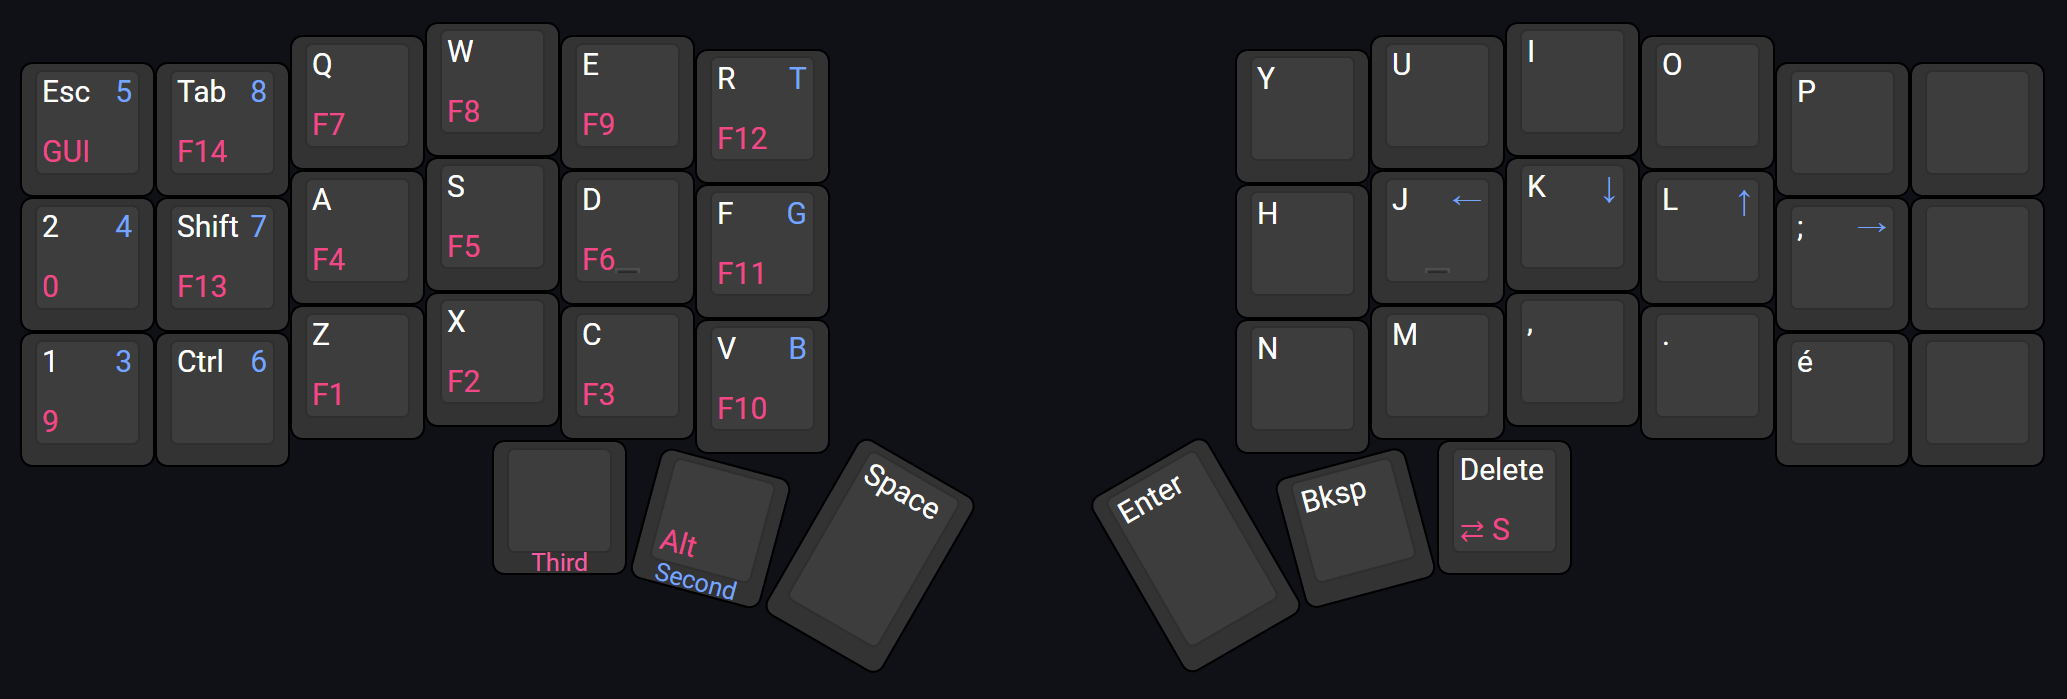
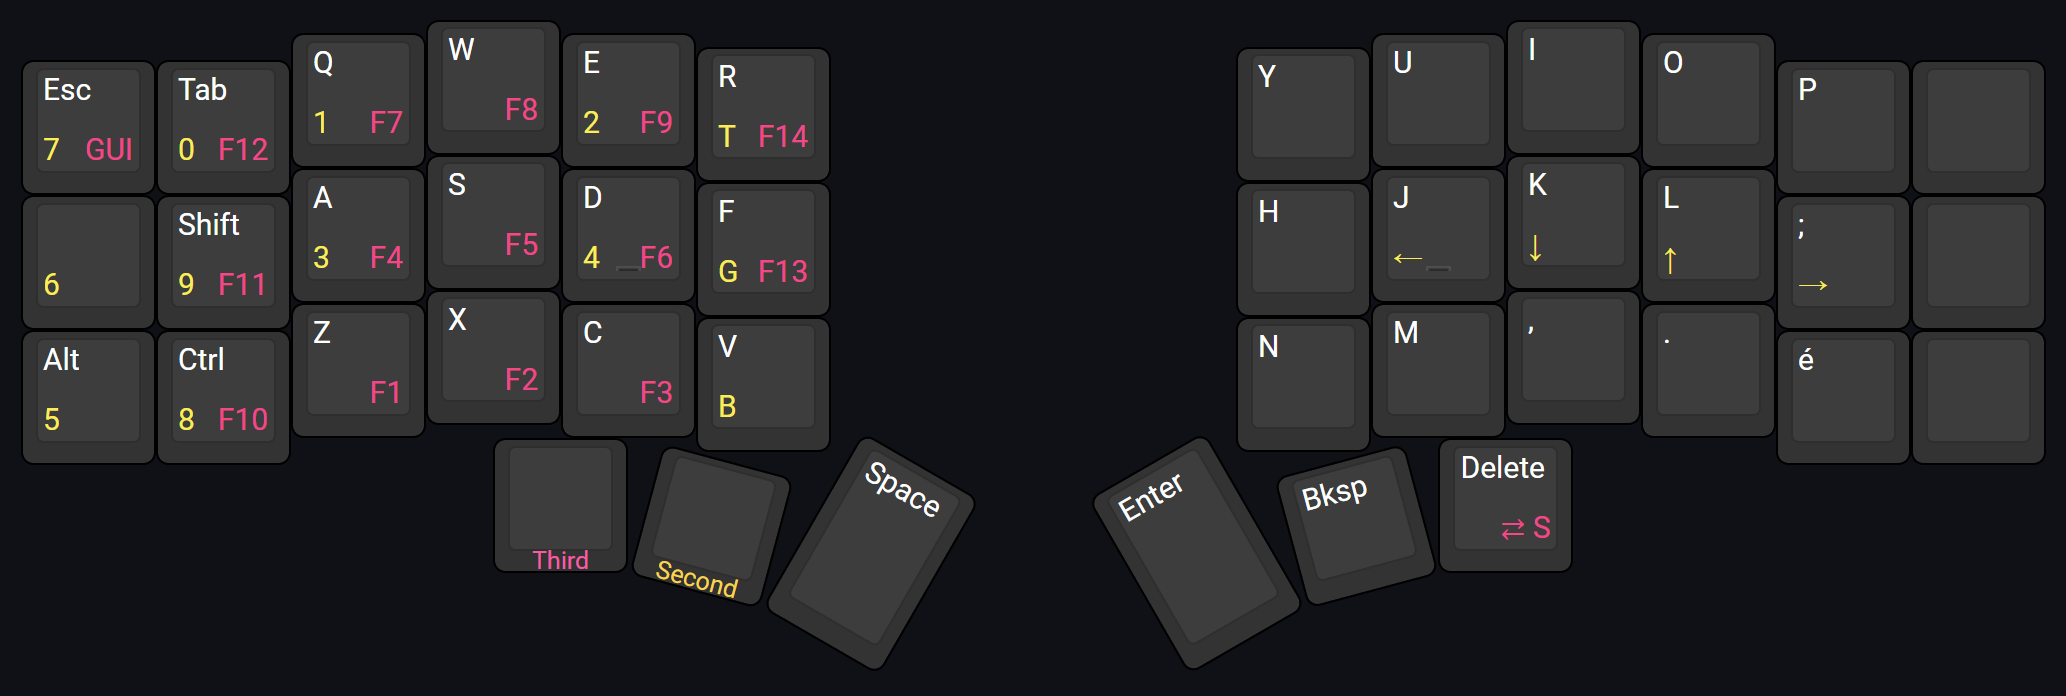
feat: update gaming layout

diff --git a/config/helpers.h b/config/helpers.h
@@ -9,17 +9,27 @@
 #define ___ &trans
 
 /**
- * Press a key, or press another one when Shift is held.
+ * Press a key, or execute a macro when Shift is held.
  *
  * @example
  * ```cpp
- * ZMK_SHIFT_FUNCTION(todo, &kp TODO, &kp TODO)
+ * ZMK_SHIFTED(punc, &kp QUESTION, &kp EXCLAMATION)
  * ```
  */
-#define ZMK_SHIFT_FUNCTION(NAME, BINDING, SHIFT_BINDING) \
+#define ZMK_SHIFTED(NAME, BINDING, SHIFTED_BINDING) \
+    ZMK_BEHAVIOR(NAME ## _macro_0, macro, \
+        wait-ms = <0>; \
+        bindings = <BINDING>; \
+    ) \
+    ZMK_BEHAVIOR(NAME ## _macro_1, macro, \
+        wait-ms = <0>; \
+        bindings = <SHIFTED_BINDING>; \
+    ) \
     ZMK_BEHAVIOR(NAME, mod_morph, \
-        bindings = <BINDING>, <SHIFT_BINDING>; \
         mods = <(MOD_LSFT|MOD_RSFT)>; \
+        bindings = \
+            <&NAME ## _macro_0>, \
+            <&NAME ## _macro_1>; \
     )
 
 /**
@@ -27,22 +37,25 @@
  *
  * @example
  * ```cpp
- * ZMK_SHIFT_MACRO(bt_sel_0, &bt BT_SEL 0, &bt BT_SEL 0 &bt BT_CLR)
+ * ZMK_HELD(bt_0, &bt BT_SEL 0, &bt BT_SEL 0 &bt BT_CLR)
  * ```
  */
-#define ZMK_SHIFT_MACRO(NAME, BINDING, SHIFT_BINDING) \
-    ZMK_BEHAVIOR(u_macro_ ## NAME, macro, \
+#define ZMK_HELD(NAME, BINDING, HELD_BINDING) \
+    ZMK_BEHAVIOR(NAME ## _macro_0, macro, \
         wait-ms = <0>; \
-        bindings = <SHIFT_BINDING>; \
+        bindings = <BINDING>; \
     ) \
-    ZMK_SHIFT_FUNCTION(NAME, BINDING, &u_macro_ ## NAME)
-
-// #define ZMK_HOLD_FUNCTION(NAME, BINDING, HOLD_BINDING) \
-//     ZMK_BEHAVIOR(## NAME, hold_tap, \
-//         flavor = "tap-preferred"; \
-//         tapping-term-ms = <5000>; \
-//         bindings = <&kp>, <&kp>; \
-//     )
+    ZMK_BEHAVIOR(NAME ## _macro_1, macro, \
+        wait-ms = <0>; \
+        bindings = <HELD_BINDING>; \
+    ) \
+    ZMK_BEHAVIOR(NAME, hold_tap, \
+        flavor = "tap-preferred"; \
+        tapping-term-ms = <5000>; \
+        bindings = \
+            <&NAME ## _macro_0>, \
+            <&NAME ## _macro_1>; \
+    )
 
 /**
  * Create a timer-less home row mods behaviour.

diff --git a/config/zmk-nodefree-config/helper.h b/config/zmk-nodefree-config/helper.h
@@ -122,14 +122,13 @@
     #endif
 #endif
 
-// Delays odified from 0 for compatibility with RDP
 #define UC_MACRO(name, unicode_bindings) \
     / { \
         macros { \
             name: name { \
                 compatible = "zmk,behavior-macro"; \
                 label = ZMK_HELPER_STRINGIFY(UC_MACRO_ ## name); \
-                wait-ms = <50>; \
+                wait-ms = <0>; \
                 tap-ms = <0>; \
                 #binding-cells = <0>; \
                 bindings = <OS_UNICODE_LEAD>, <&macro_tap unicode_bindings>, <OS_UNICODE_TRAIL>; \
@@ -158,3 +157,4 @@
     UC_MACRO(name ## _lower, &kp L0 &kp L1 &kp L2 &kp L3) \
     UC_MACRO(name ## _upper, &kp U0 &kp U1 &kp U2 &kp U3) \
     UC_MODMORPH(name, &name ## _lower, &name ## _upper)
+

diff --git a/config/keys.h b/config/keys.h
@@ -1,0 +1,5 @@
+#include "./zmk-nodefree-config/keypos_def/keypos_42keys.h"
+
+#define LEFT_SIDE_KEYS LT0 LT1 LT2 LT3 LT4 LM0 LM1 LM2 LM3 LM4 LB0 LB1 LB2 LB3 LB4 
+#define RIGHT_SIDE_KEYS RT0 RT1 RT2 RT3 RT4 RM0 RM1 RM2 RM3 RM4 RB0 RB1 RB2 RB3 RB4
+#define THUMB_KEYS LH2 LH1 LH0 RH0 RH1 RH2
